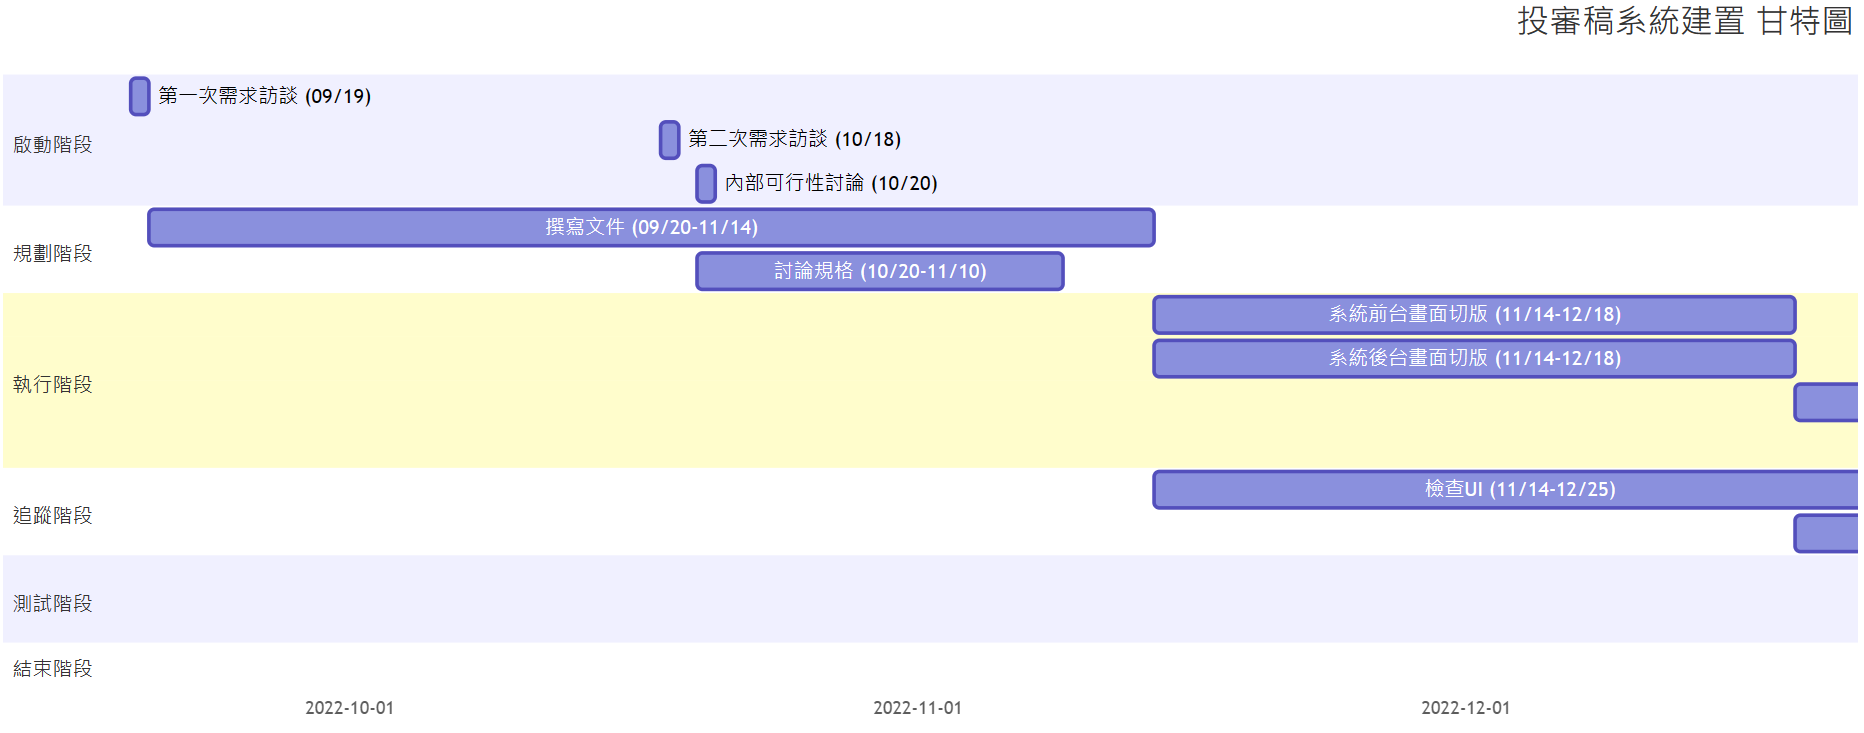
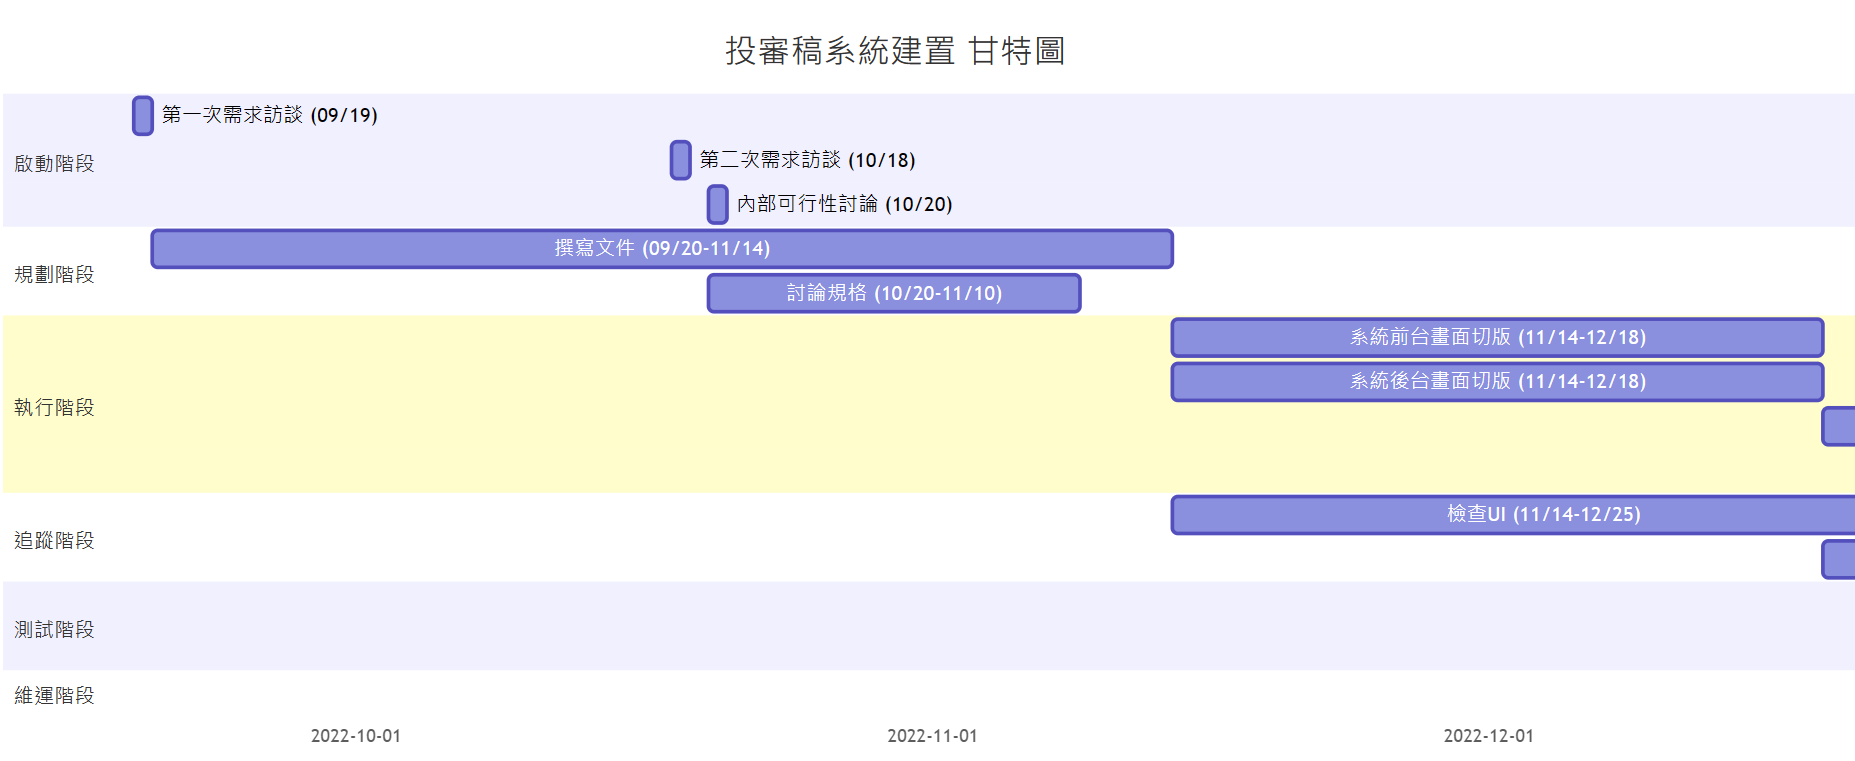
0111update

diff --git a/project/post-1018/index.html b/project/post-1018/index.html
@@ -152,9 +152,13 @@
 <ol start="4">
 <li>時間管理：</li>
 </ol>
-<p><img src="../../images/featured-post/post-1018-6.png" alt="image"></p>
+<p>Mermaid Live Editor 抓大範圍時間</p>
 <p><img src="../../images/featured-post/post-1018-4.png" alt="image">
 <img src="../../images/featured-post/post-1018-5.png" alt="image"></p>
+<p>Notion 詳列執行細節的時間</p>
+<p><img src="../../images/featured-post/post-1018-6.png" alt="image"></p>
+<p>專案的最終目標是建置滿足客戶需求的系統。</p>
+<p>營運階段的開始是追蹤系統的後續使用情況，積極維持客戶關係，尋求後續合作機會。</p>
 <ol start="5">
 <li>專案作品：</li>
 </ol>
